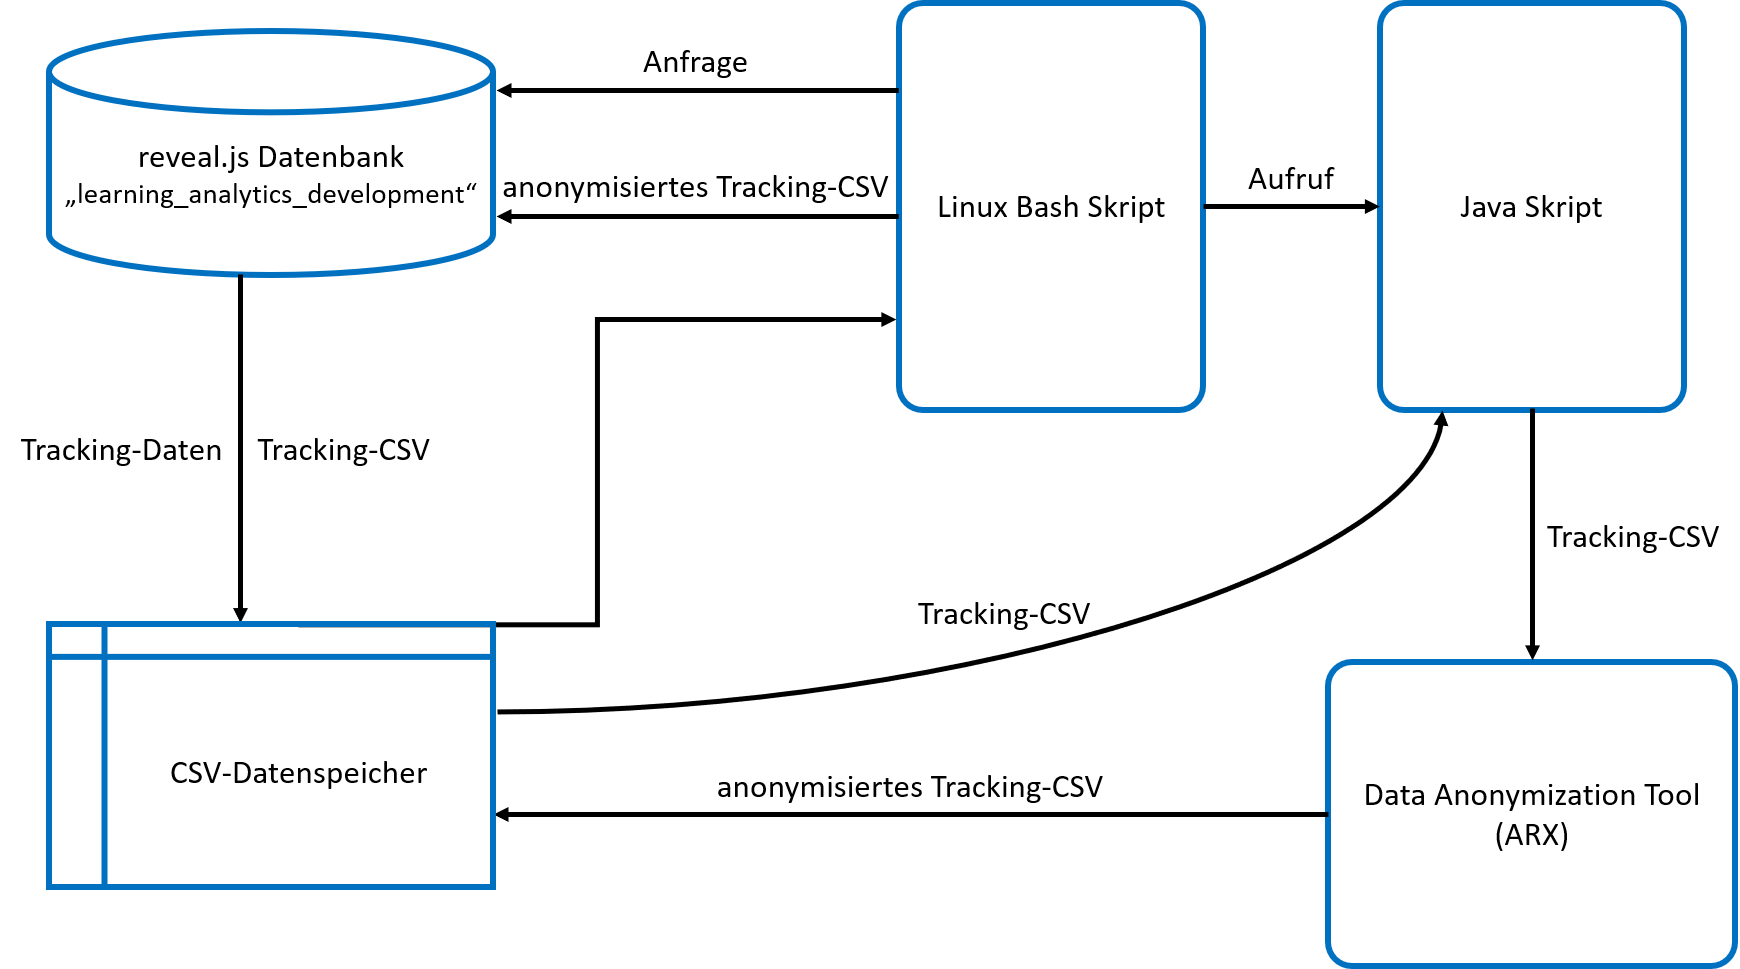
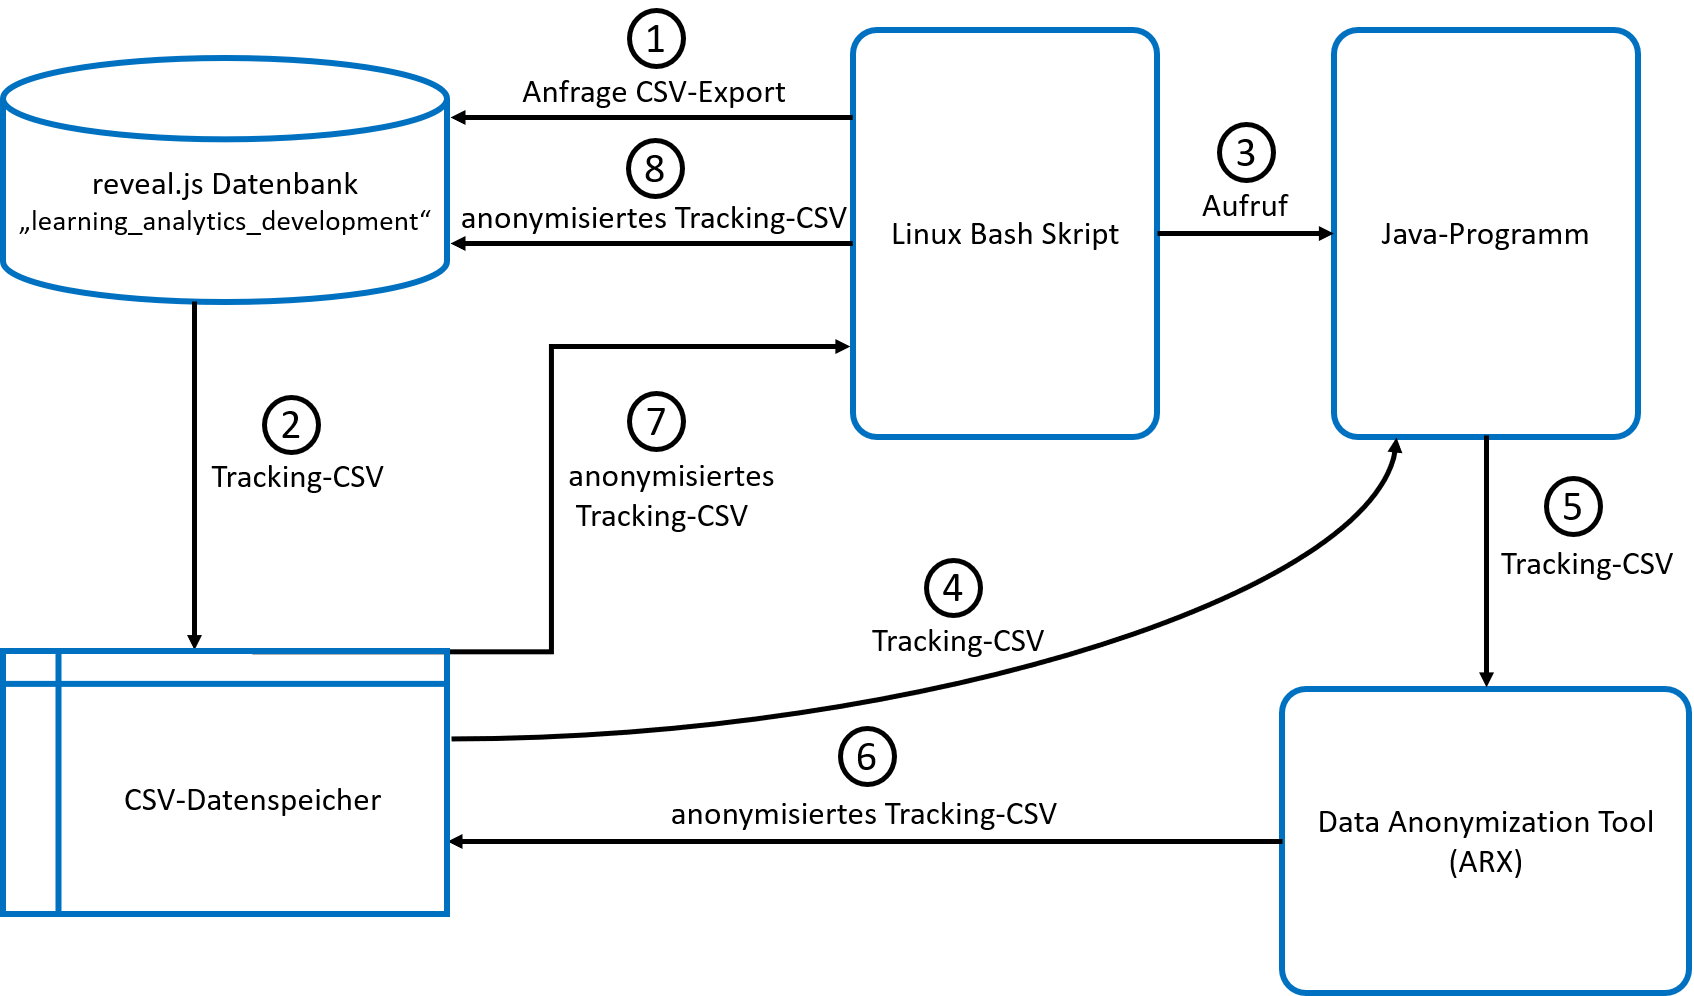
add new architecture graphic

diff --git a/README.md b/README.md
@@ -1,9 +1,8 @@
 # anonymizeReveal.js
 
 This application anonymizes reveal.js tracking data from the [reveal.js tracking plugin](https://github.com/pantajosef/reveal.js-tracking) by using the ARX anonymisation tool. Currently the data is being 2-anonymized but all the anonymisation parameters can be modified in [LAnonymizer.java](https://github.com/jquku/anonymizeReveal.js/blob/master/LAnonymizer.java) manually. This application contains a shell script and therefore cannot be used
-for windows or macOS. 
+for windows or macOS. Kick off the anonymisation process by starting the shell script in the terminal.
 
 ## Software architecture
 
 ![Screenshot](architektur.png)
-
